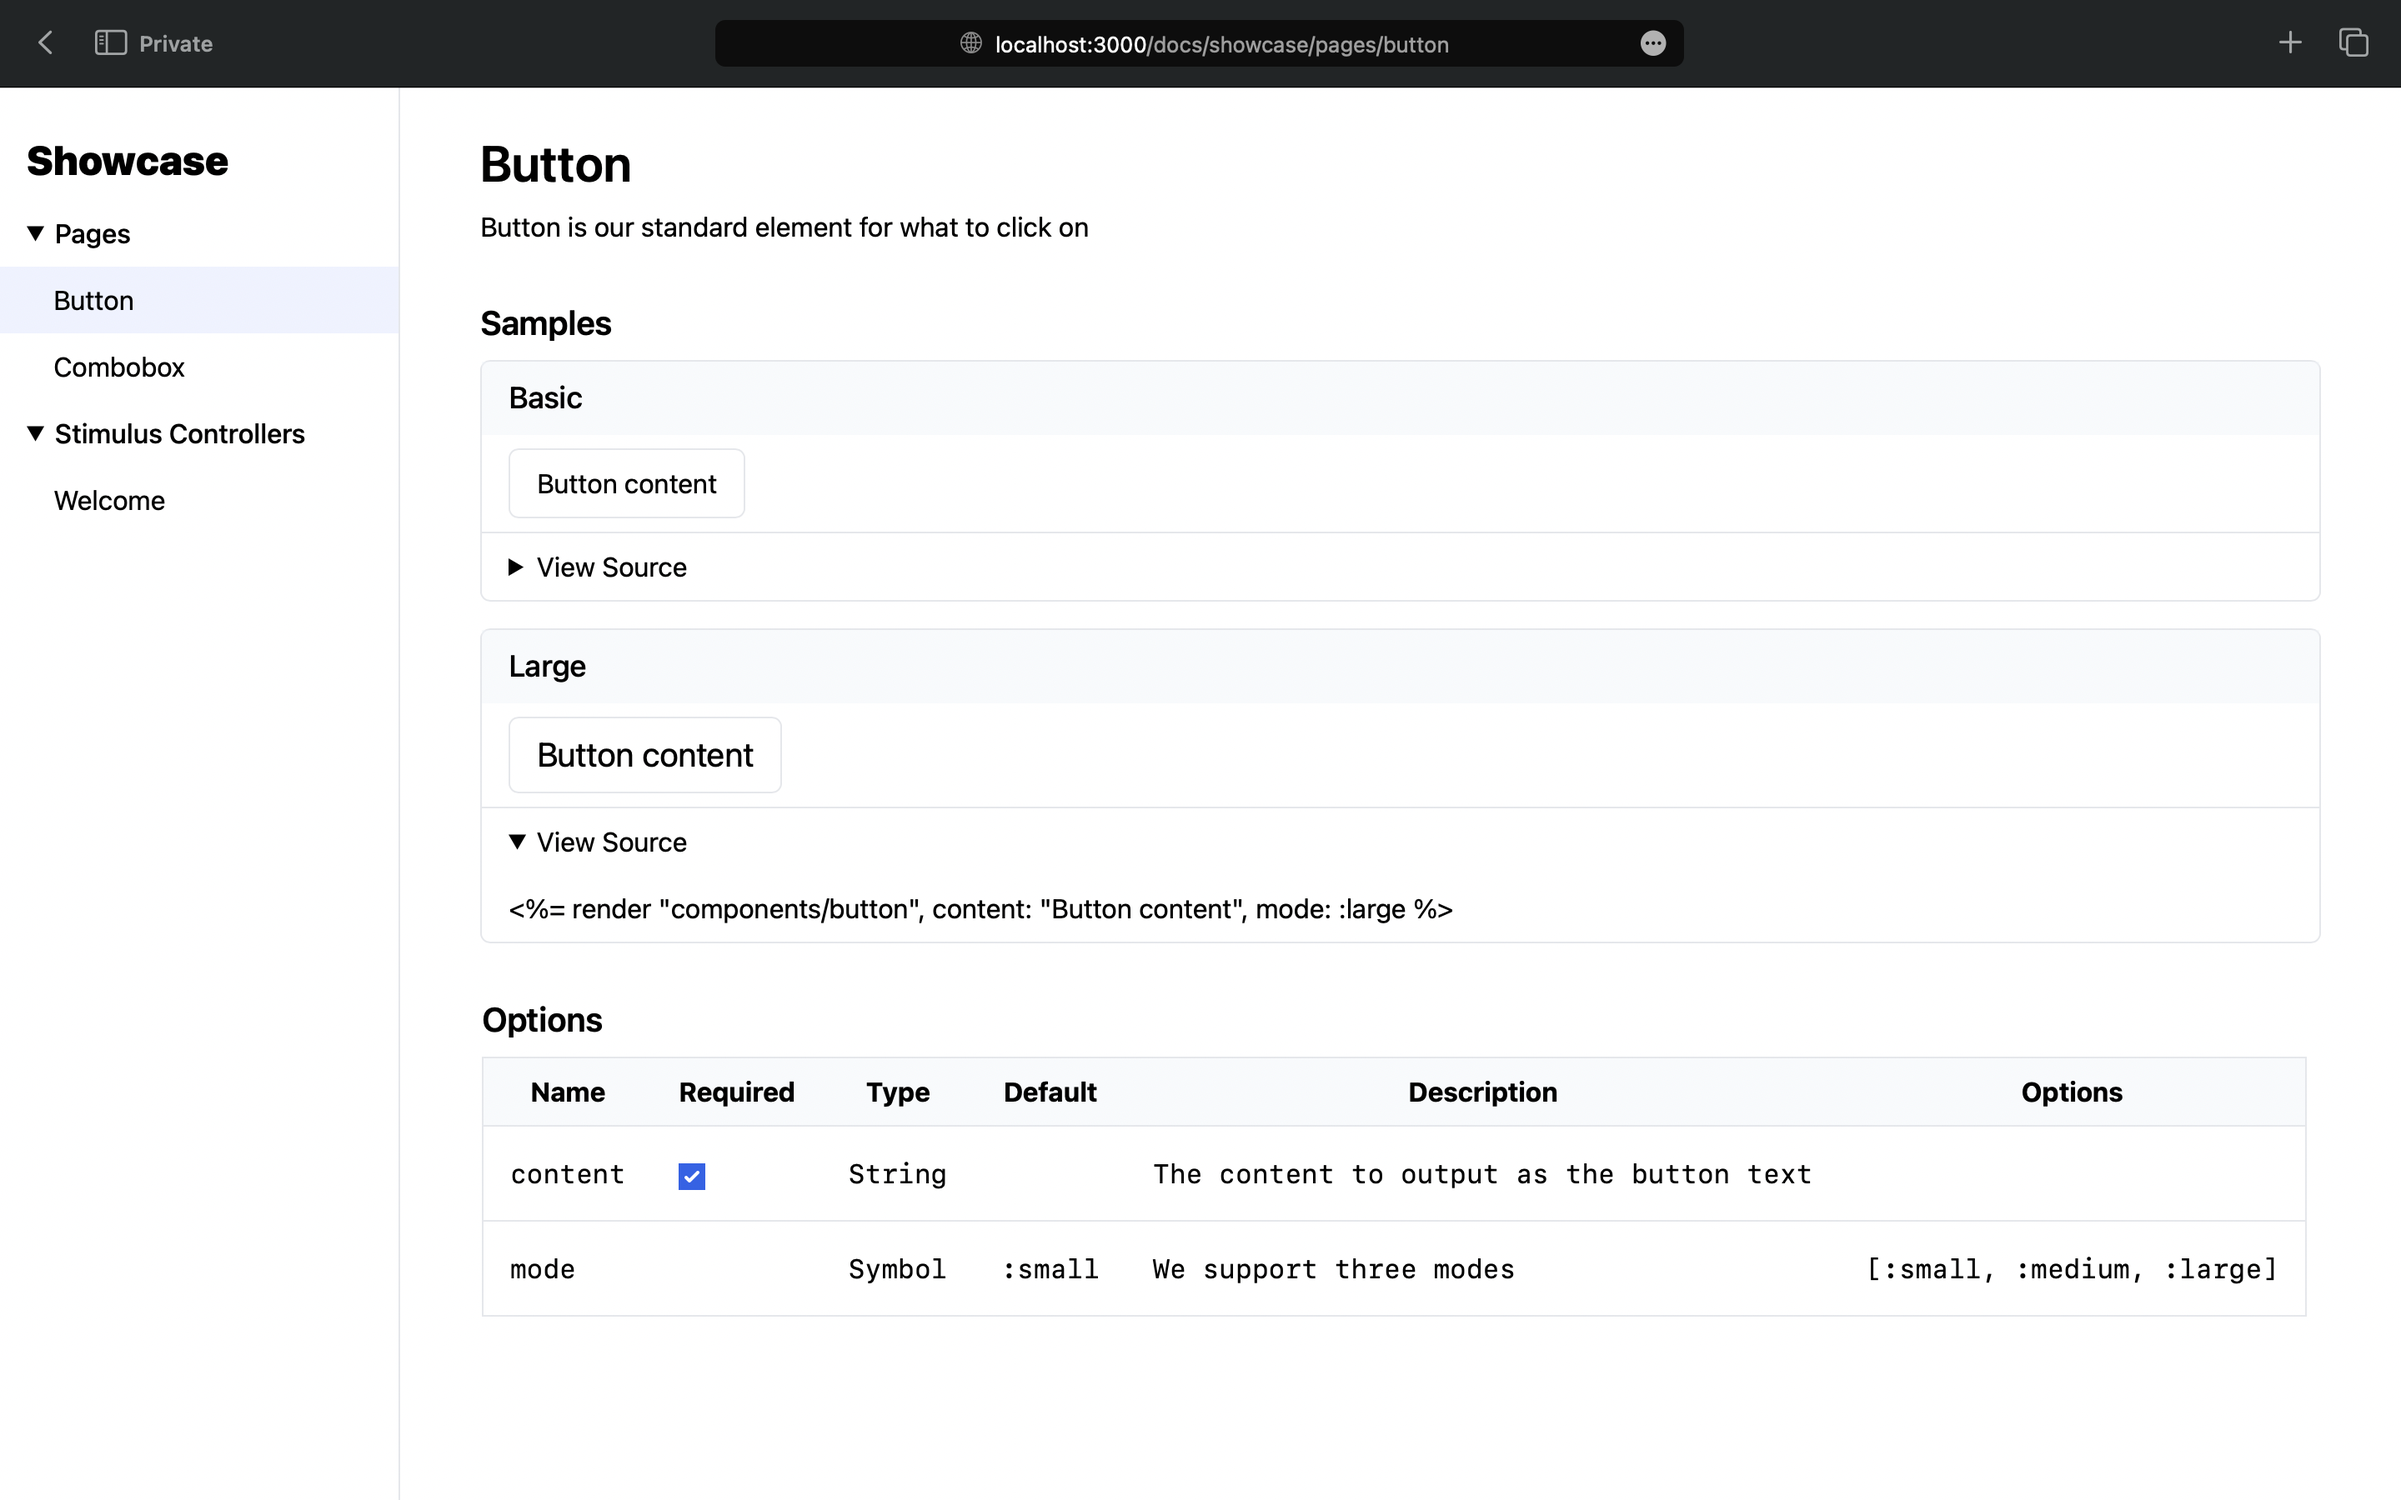
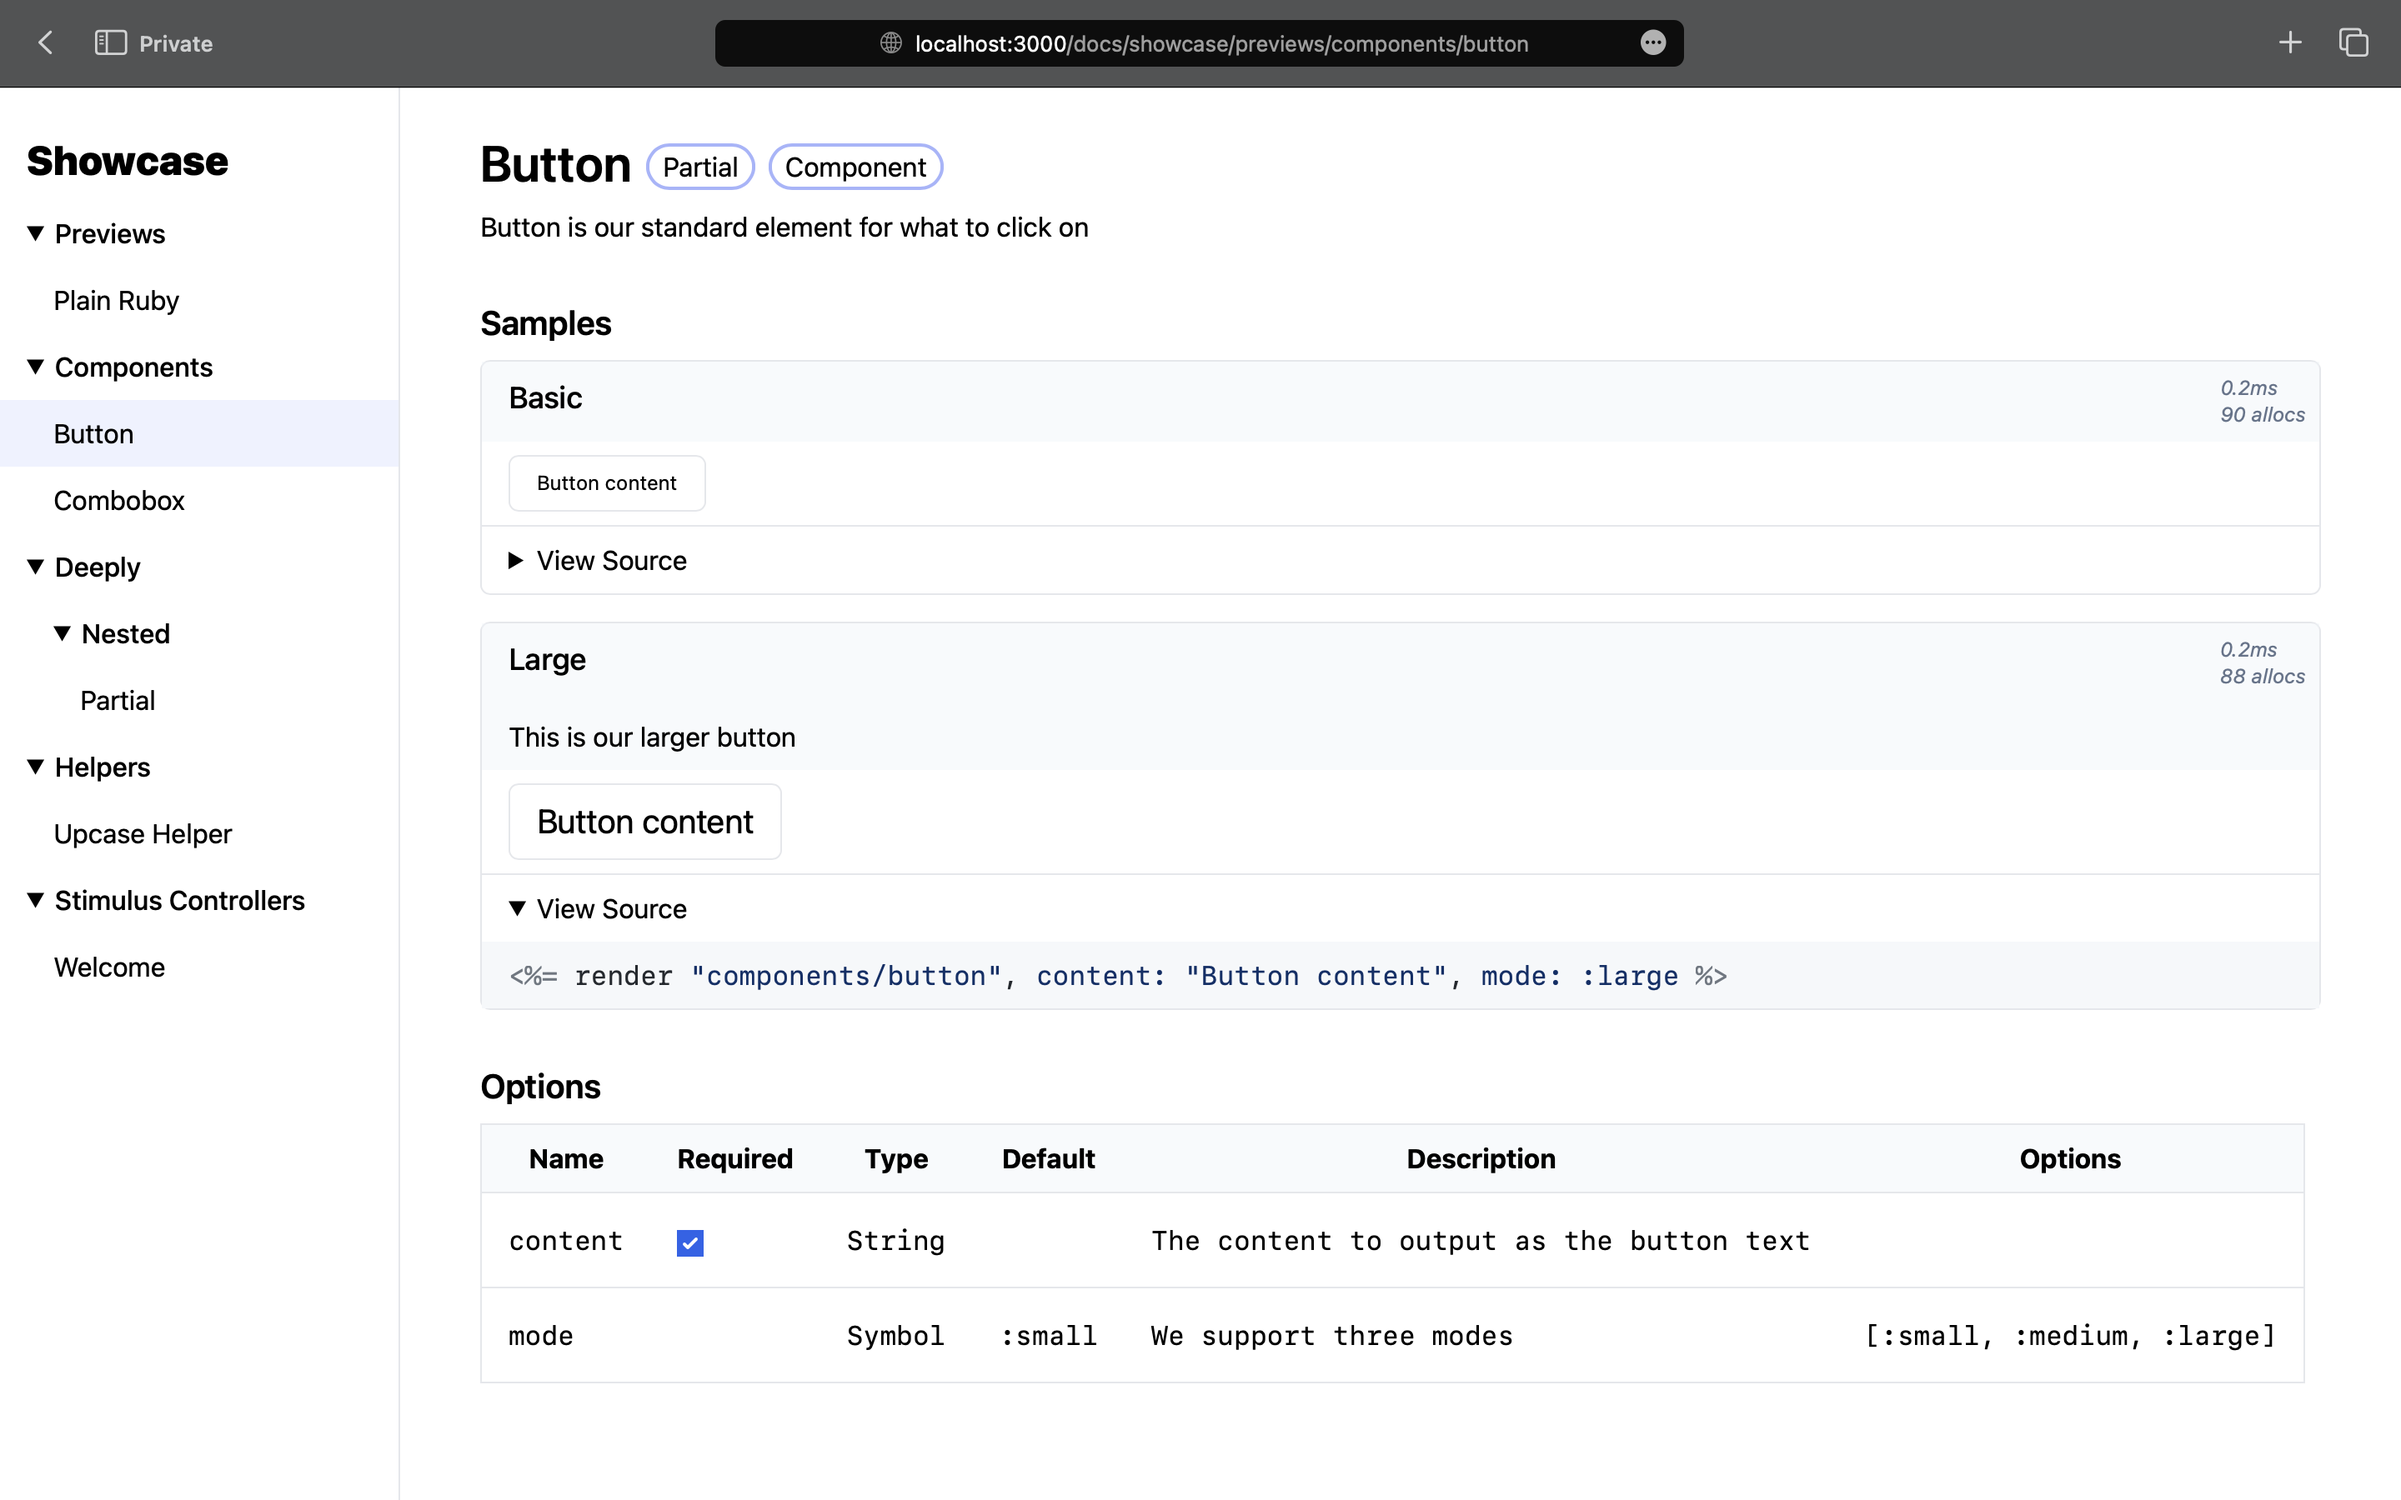
Spruce up our beginning docs; update screenshot; clarify our internal examples organization

diff --git a/test/views/showcase_test.rb b/test/views/showcase_test.rb
@@ -13,22 +13,22 @@ class ShowcaseTest < Showcase::PreviewsTest
     assert_method %r{renders_showcase/previews/deeply/nested/partial}
   end
 
-  test showcase: "combobox" do
+  test showcase: "components/combobox" do
     assert_element id: "basic" do
       assert_text "This is totally a combobox, for sure."
     end
   end
 
-  test showcase: "combobox", id: "basic" do
+  test showcase: "components/combobox", id: "basic" do
     assert_text "This is totally a combobox, for sure."
   end
 
-  test "showcase generated a combobox test" do
-    assert_method "test_Showcase:_showcase/previews/combobox"
+  test "showcase generated a components/combobox test" do
+    assert_method "test_Showcase:_showcase/previews/components/combobox"
   end
 
-  test "showcase generated a combobox basic sample test" do
-    assert_method "test_Showcase:_showcase/previews/combobox_sample_basic"
+  test "showcase generated a components/combobox basic sample test" do
+    assert_method "test_Showcase:_showcase/previews/components/combobox_sample_basic"
   end
 
   private

diff --git a/test/controllers/showcase/engine_controller_test.rb b/test/controllers/showcase/engine_controller_test.rb
@@ -25,8 +25,14 @@ class Showcase::EngineControllerTest < Showcase::IntegrationTest
       assert_link "Showcase", href: root_url
 
       within :disclosure, "Previews", expanded: true do
-        assert_link "Button", href: preview_path("button")
-        assert_link "Combobox", href: preview_path("combobox")
+        assert_link "Plain Ruby", href: preview_path("plain_ruby")
+      end
+      within :disclosure, "Components", expanded: true do
+        assert_link "Button",   href: preview_path("components/button")
+        assert_link "Combobox", href: preview_path("components/combobox")
+      end
+      within :disclosure, "Helpers", expanded: true do
+        assert_link "Upcase Helper", href: preview_path("helpers/upcase_helper")
       end
       within :disclosure, "Stimulus Controllers", expanded: true do
         assert_link "Welcome", href: preview_path("stimulus_controllers/welcome")

diff --git a/test/controllers/showcase/previews_controller_test.rb b/test/controllers/showcase/previews_controller_test.rb
@@ -2,7 +2,7 @@ require "test_helper"
 
 class Showcase::PreviewsControllerTest < Showcase::IntegrationTest
   test "#show renders samples and options" do
-    get preview_path("button")
+    get preview_path("components/button")
 
     assert_response :ok
     within :section, "Samples" do
@@ -19,7 +19,7 @@ class Showcase::PreviewsControllerTest < Showcase::IntegrationTest
   end
 
   test "#show does not render a <table>" do
-    get preview_path("combobox")
+    get preview_path("components/combobox")
 
     assert_response :ok
     assert_no_section "Options"

diff --git a/README.md b/README.md
@@ -1,21 +1,20 @@
 # Showcase
 
-Showcase lets you build previews for your partials, components, view helpers, Stimulus controllers and more.
+Showcase lets you build previews for your partials, components, view helpers, Stimulus controllers and more — Rails engines included!
 
-Add a template to `app/views/showcase/previews` and it'll show up in Showcase's menu.
+Add a partial to `app/views/showcase/previews` and it'll show up in Showcase's menu. Here's how to showcase a standard button component:
 
-Here's how to showcase a standard button component:
-
-```erb
-<%# app/views/showcase/previews/_button.html.erb %>
+```html
+<%# app/views/showcase/previews/components/_button.html.erb %>
 <% showcase.title "Button" %> <%# `title` is optional and inferred from the filename, by default. %>
+<% showcase.badge :partial, :component %> <%# Optional badges you can add to further clarify the type of the showcase. %>
 <% showcase.description "This button component handles what we click on" %>
 
 <% showcase.sample "Basic" do %>
   <%= render "component/button", content: "Button content", mode: :small %>
 <% end %>
 
-<% showcase.sample "Large" do %>
+<% showcase.sample "Large", description: "This is our larger button" do %>
   <%= render "component/button", content: "Button content", mode: :large %>
 <% end %>
 
@@ -28,6 +27,8 @@ Here's how to showcase a standard button component:
 Which will then render the following:
 
 ![](/readme/example.png?raw=true "Showcase showing a button component")
+
+Each sample shows the render time in milliseconds and the allocation count so it's easier to spot if there's something different happening between your samples.
 
 ## Syntax Highlighting
 
